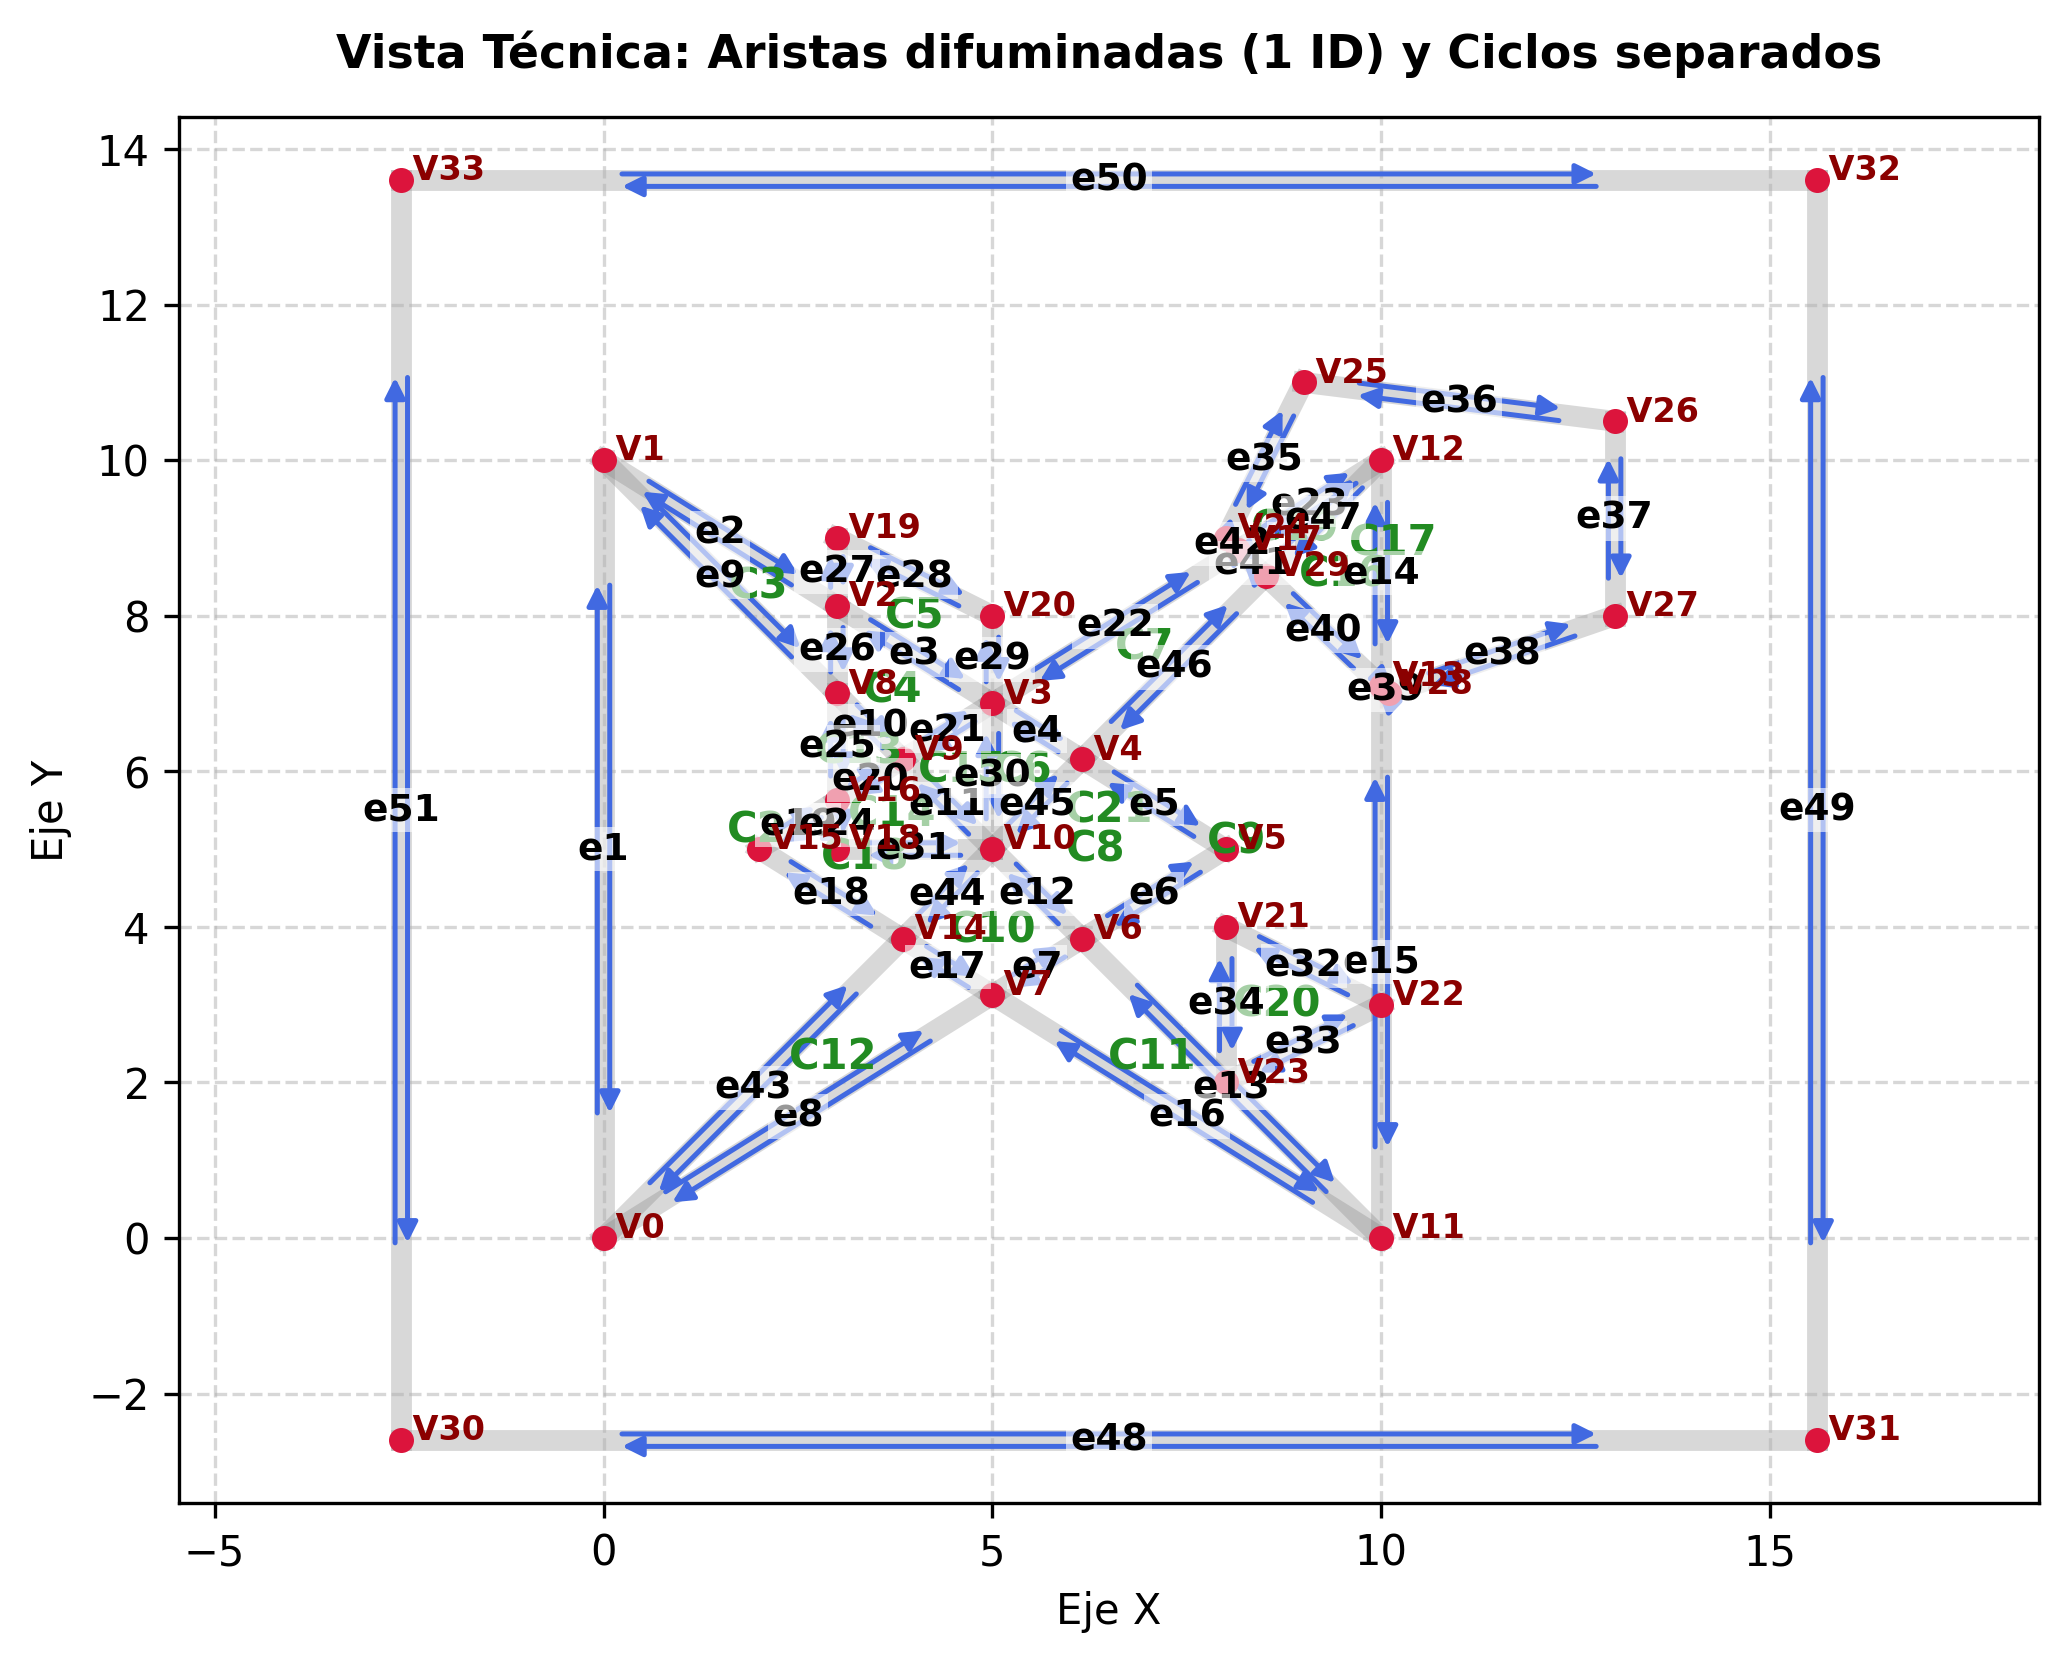
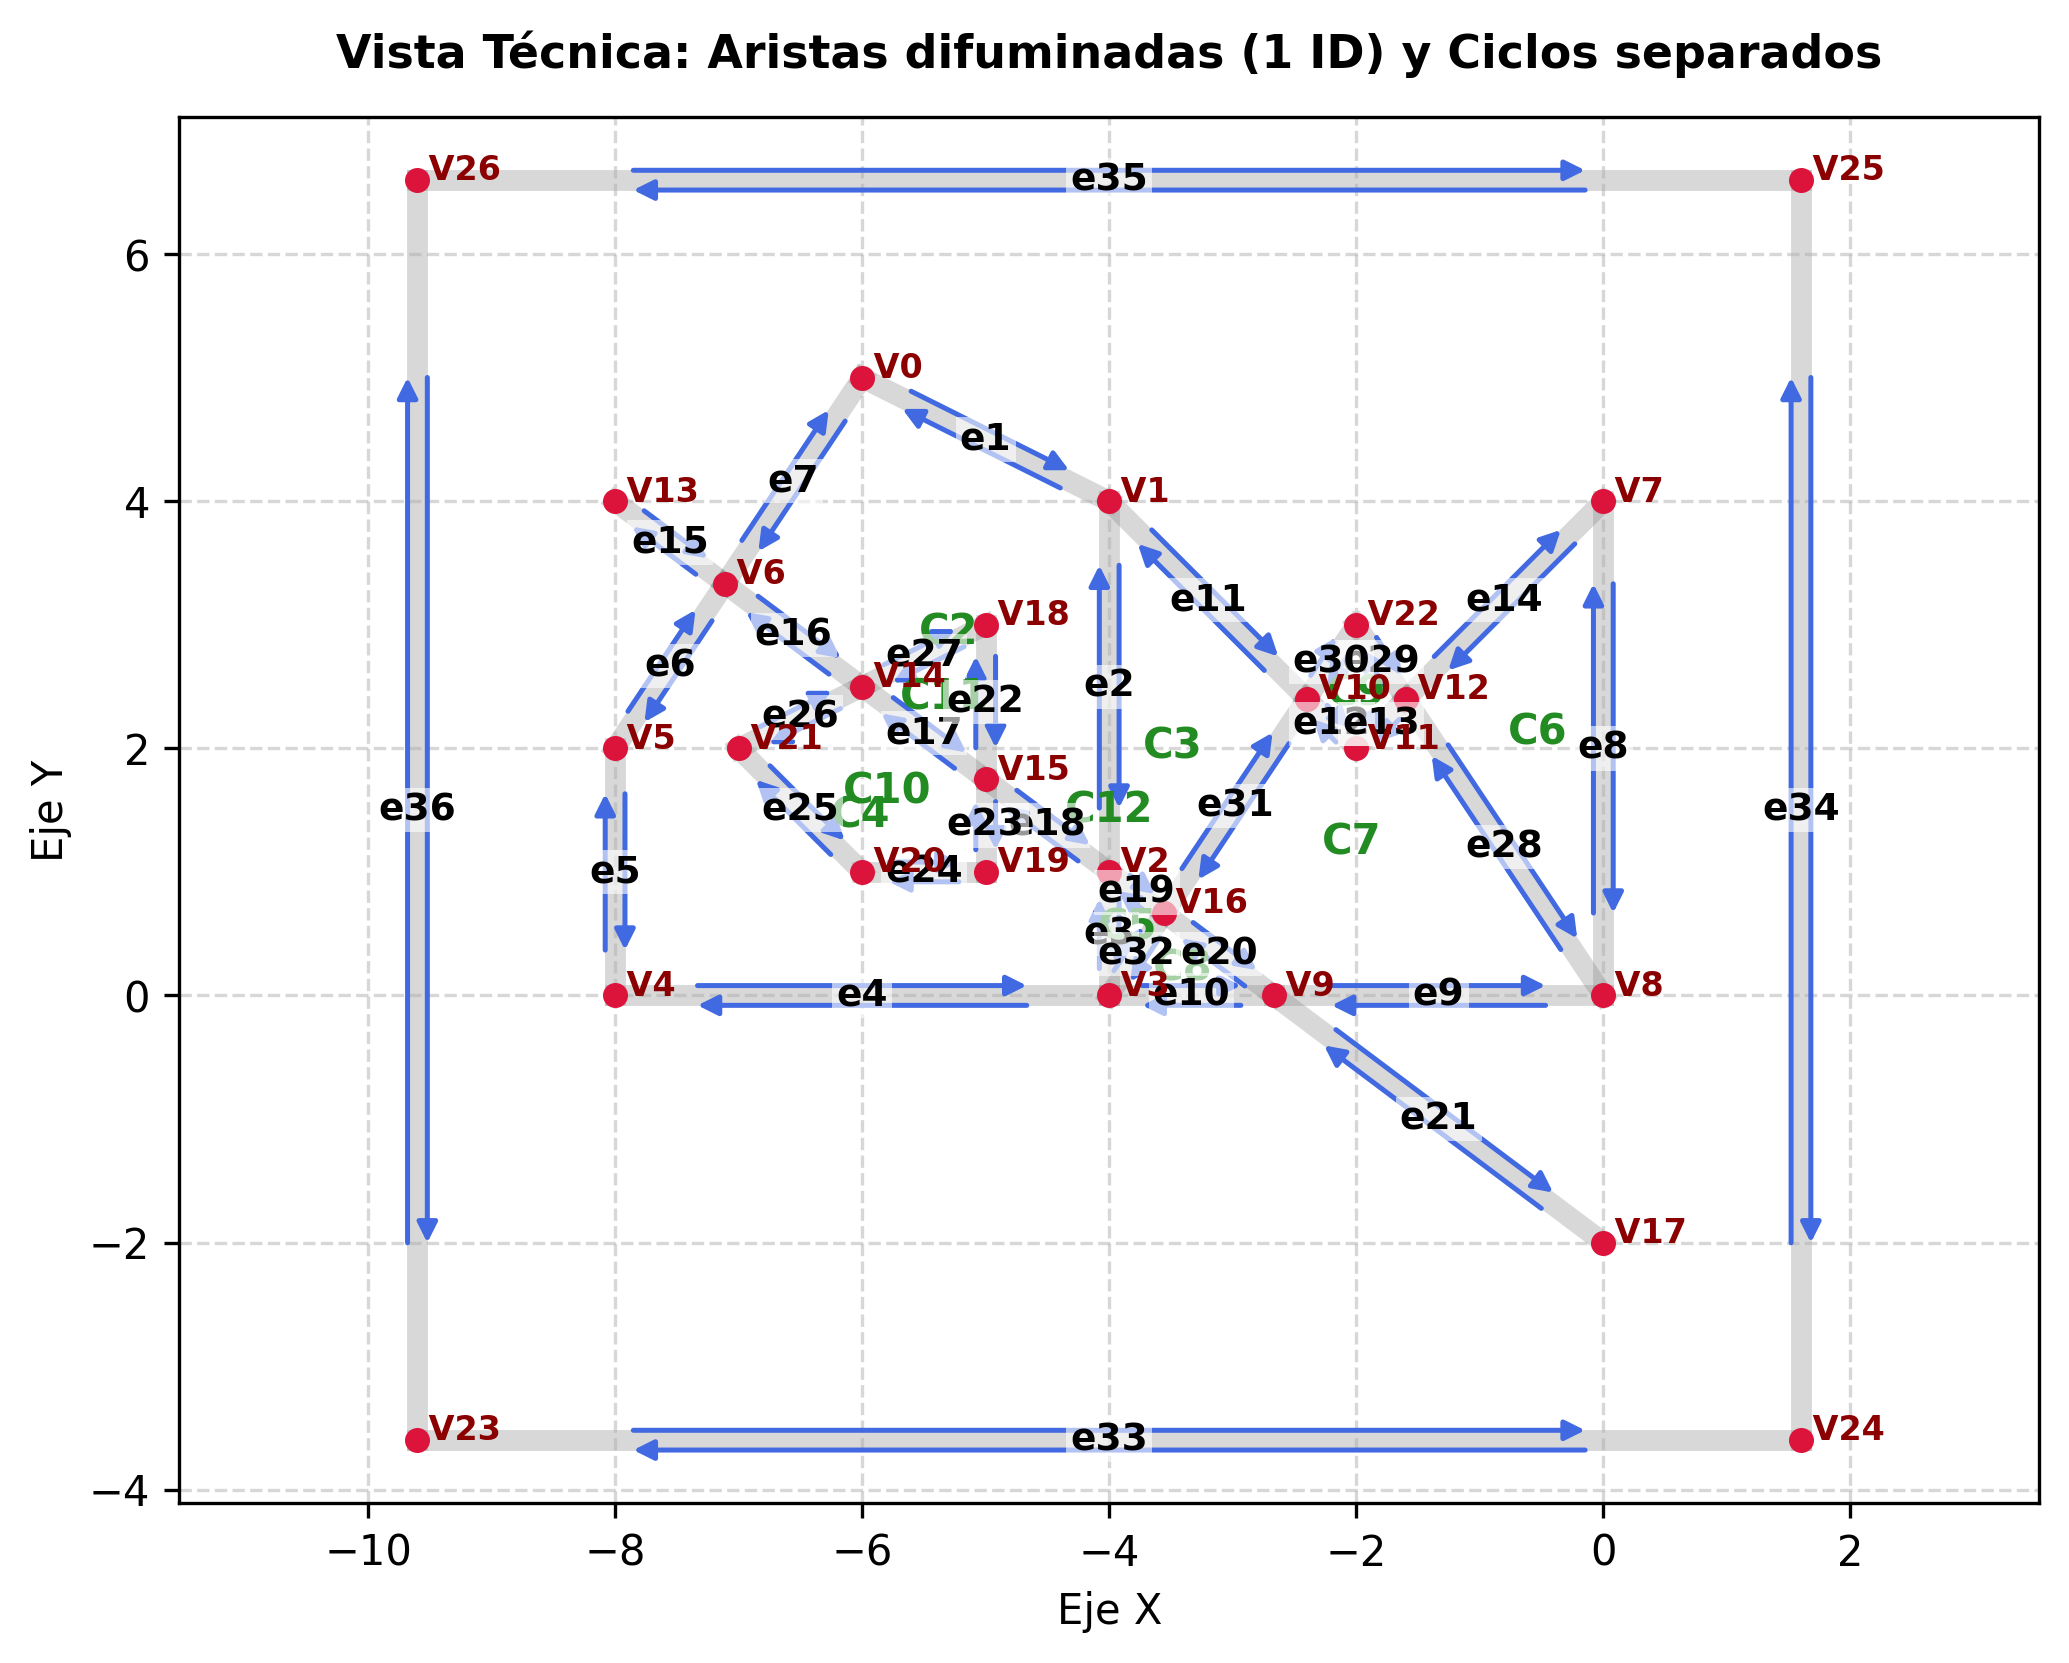
awebito

diff --git a/primo_Aris/primoAristas.py b/primo_Aris/primoAristas.py
@@ -263,6 +263,7 @@ def open_matplotlib_technical_view(dcel):
         ax.annotate(f" {v.id}", (v.x, v.y), color='darkred', fontsize=8, fontweight='bold', zorder=4)
 
     # Dibujar Caras
+    """
     for fc in dcel.faces.values():
         if fc.id != "C1" and fc.outer_component:
             poly = get_cycle_polygon(fc.outer_component)
@@ -270,7 +271,7 @@ def open_matplotlib_technical_view(dcel):
                 cx = sum(p[0] for p in poly) / len(poly)
                 cy = sum(p[1] for p in poly) / len(poly)
                 ax.text(cx, cy, fc.id, color='forestgreen', fontsize=10, fontweight='bold', ha='center', va='center')
-
+    """
     ax.set_aspect('equal', adjustable='datalim')
     plt.title("Vista Técnica: Aristas difuminadas (1 ID) y Ciclos separados", fontsize=11, pad=12, fontweight='bold')
     plt.xlabel("Eje X")
